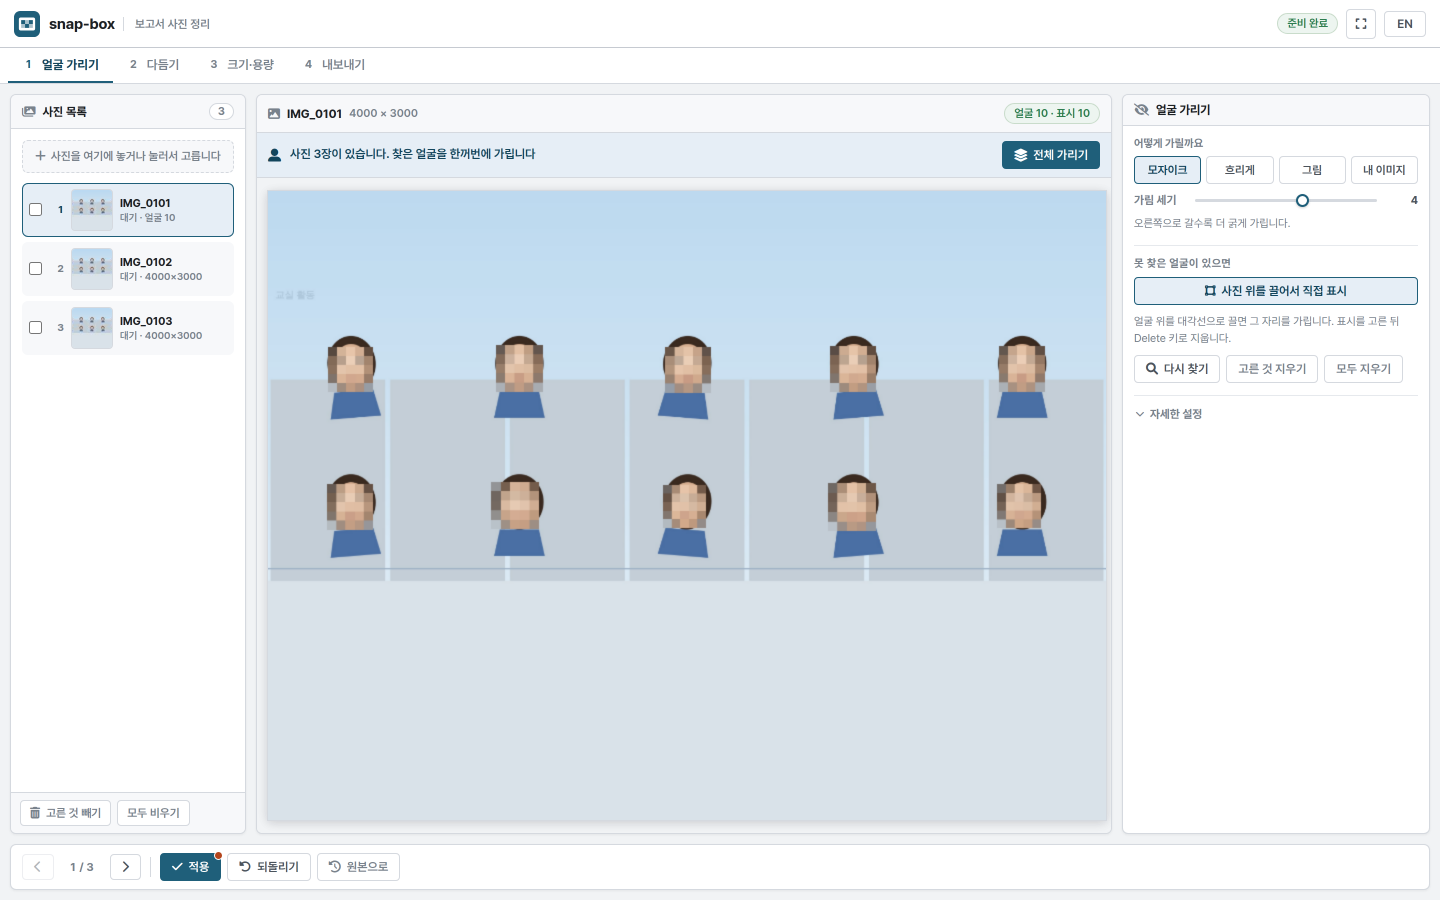
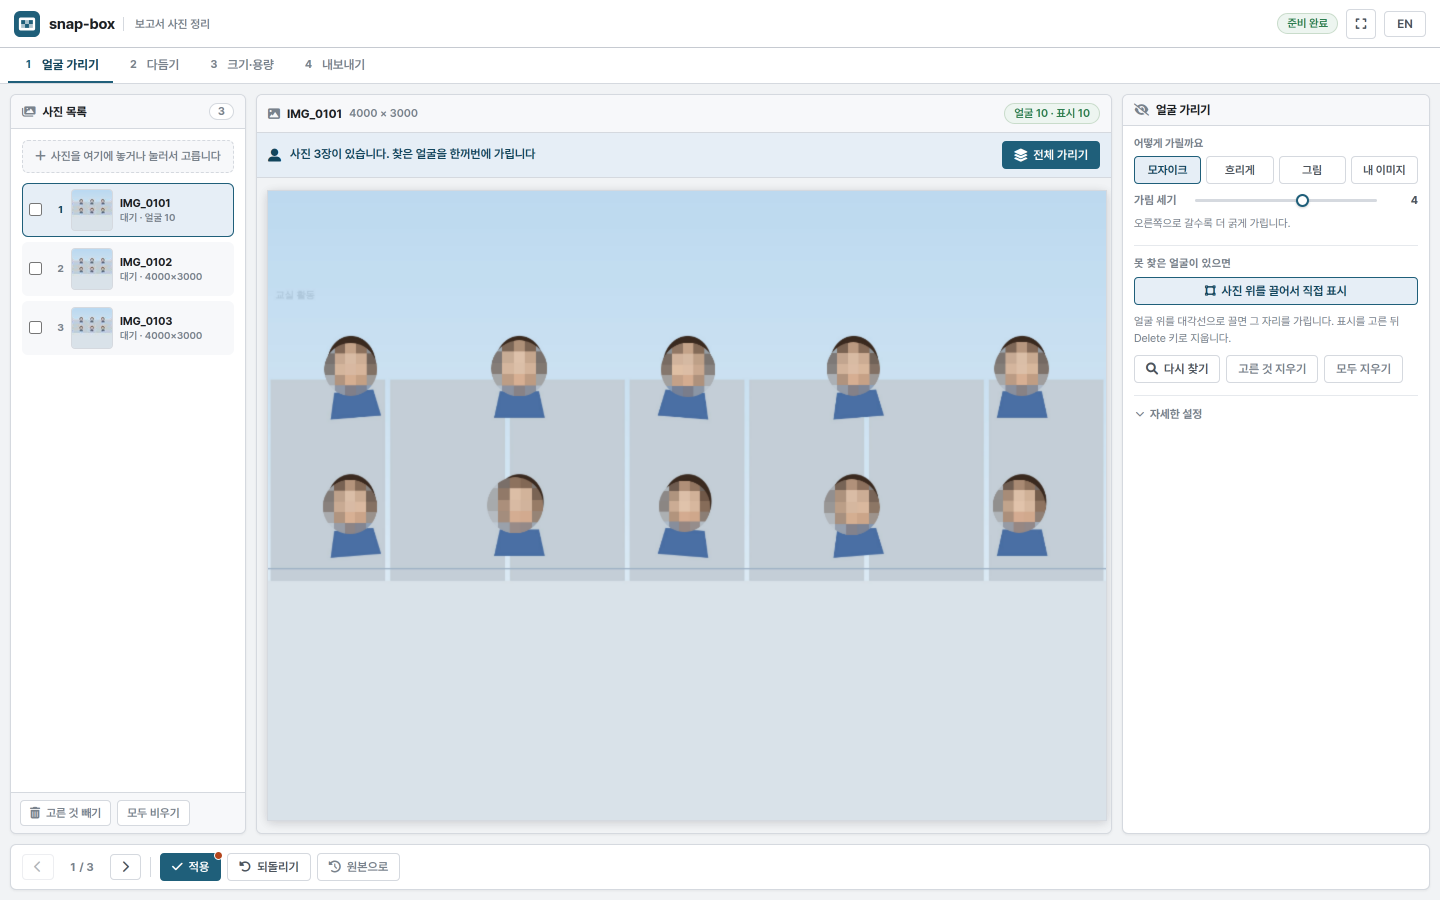
가림을 타원으로, 바깥은 투명하게
사각 모자이크가 사진 위에 도장처럼 박혀 보고서에 넣으면 튀었다.
가림을 타원으로 오려내고 바깥은 alpha 0 으로 둔다.

## 무엇을 했나
- buildPatch 끝에서 clipEllipse() 로 오려낸다(destination-in + ellipse).
  가장자리는 안티에일리어싱으로 빠져 사진에 자연스럽게 얹힌다.
- 그림(아이콘)은 타원을 가득 채우도록 cover 로 그린다. 우리 그림은 둥근 판이라
  타원이 되어도 어색하지 않고, 모자이크 테두리가 보이지 않는다.
- 사용자가 올린 그림(내 이미지)은 찌그러지면 안 되므로 contain 을 유지한다.
  남는 자리는 아래 깔린 모자이크가 채운다.
- 끌어서 표시할 때 보이는 미리보기도 타원으로 바꿨다. 끈 대로 가려진다.

## 모양을 바꾸면서 가림이 약해지면 안 된다
사각형에 내접한 타원은 네 모서리를 잃는다. 그만큼 검출 박스를 한 번 더 넓혔다.
  얼굴 폭 w → 박스 폭 = w × 1.3(EXPAND) × 1.18(ELLIPSE_K) ≈ 1.53w
  얼굴 위·아래 끝에서 타원 반폭 ≈ 0.58w > 그 높이의 머리 반폭 ≈ 0.4w
사람이 직접 그린 표시는 그린 그대로 쓴다(넓히지 않는다).

## 시험
감사에 타원 검사 2항목을 넣었다. 결과 blob 을 다시 읽어
  얼굴 타원 가장자리 8방향  → 80/80 덮임
  박스 네 모서리            → 40/40 원본 그대로 (타원 밖이 실제로 투명)
모자이크·흐리게·그림 세 방식 모두 48/48, 24/24 로 같은 결과.

http:// 75항목 · file:// 12항목 · 하위 경로 배포 모두 통과.
단체사진 일괄 재확인: 10명 5.6% 10/10, 10명 3.6% 10/10, 18명 3.6% 16/18.

design/README.md 에 "가리는 모양은 사각형으로 두지 않는다, 대신 덮이는 범위가
줄지 않게 영역을 넓힌다" 를 규칙으로 남겼다.

Claude-Session: https://claude.ai/code/session_01MbGiXBUSkrQwCfuHksAWKB

diff --git a/js/face.js b/js/face.js
@@ -32,7 +32,17 @@ window.SnapLab = window.SnapLab || {};
   var MODEL_FULL  = url('models/blaze_face_full_range.tflite');
   var MODEL_SHORT = url('models/blaze_face_short_range.tflite');
 
-  var EXPAND = 0.15;      // 검출 박스 상하좌우 15% 확장
+  var EXPAND = 0.15;      // 검출 박스 상하좌우 15% 확장 (머리카락·턱 노출 방지)
+
+  /* 가림은 사각형이 아니라 타원으로 만들고 바깥은 투명하게 둔다.
+   * 사각 모자이크는 보고서에 넣으면 도장을 찍은 것처럼 튄다.
+   *
+   * 다만 사각형에 내접한 타원은 네 모서리를 잃는다. 그만큼 얼굴이 드러나면
+   * 안 되므로, 검출 박스를 한 번 더 넓혀서 타원이 예전 사각형만큼은 덮게 한다.
+   *   얼굴 폭 w 기준 박스 폭 = w × 1.3(EXPAND) × 1.18(ELLIPSE_K) ≈ 1.53w
+   *   얼굴 위·아래 끝(±0.5h)에서 타원의 반폭 ≈ 0.58w  >  그 높이의 머리 반폭 ≈ 0.4w
+   * 사람이 직접 그린 칸은 그린 그대로 쓴다(넓히지 않는다). */
+  var ELLIPSE_K = 1.18;
   var MAX_COLS = 8;       // 모자이크 블록은 박스 폭의 1/8보다 작아지지 않는다
   var DEFAULT_COLS = 5;   // 기본값은 상한(8칸)보다 강하게 잡는다
 
@@ -254,8 +264,8 @@ window.SnapLab = window.SnapLab || {};
     for (var i = 0; i < raw.length; i++) {
       var d = raw[i];
       if (d.score < minScore) continue;
-      var w = d.w * (1 + EXPAND * 2);
-      var h = d.h * (1 + EXPAND * 2);
+      var w = d.w * (1 + EXPAND * 2) * ELLIPSE_K;
+      var h = d.h * (1 + EXPAND * 2) * ELLIPSE_K;
       var cx = (d.x + d.w / 2) * scale;
       var cy = (d.y + d.h / 2) * scale;
       w *= scale; h *= scale;
@@ -352,6 +362,29 @@ window.SnapLab = window.SnapLab || {};
     g.drawImage(b, Math.round(tw * pad), Math.round(th * pad), tw, th, 0, 0, tw, th);
   }
 
+  /* 캔버스를 타원으로 오려내고 바깥은 alpha 0 으로 만든다.
+   * destination-in: 원본(타원)이 불투명한 곳만 남기고 나머지는 지운다.
+   * 가장자리는 안티에일리어싱으로 부드럽게 빠져 사진에 자연스럽게 얹힌다. */
+  function clipEllipse(c) {
+    var g = c.getContext('2d');
+    g.save();
+    g.globalCompositeOperation = 'destination-in';
+    g.beginPath();
+    g.ellipse(c.width / 2, c.height / 2, c.width / 2, c.height / 2, 0, 0, Math.PI * 2);
+    g.fillStyle = '#000';
+    g.fill();
+    g.restore();
+  }
+
+  /* 타원을 가득 채우도록 그린다(넘치는 부분은 오려낸다). 우리가 만든 둥근 그림에 쓴다. */
+  function drawCover(g, img, tw, th) {
+    var iw = img.naturalWidth || img.width, ih = img.naturalHeight || img.height;
+    if (!iw || !ih) return;
+    var s = Math.max(tw / iw, th / ih);
+    var w = iw * s, h = ih * s;
+    g.drawImage(img, (tw - w) / 2, (th - h) / 2, w, h);
+  }
+
   function drawContain(g, img, tw, th, ratio) {
     var iw = img.naturalWidth || img.width, ih = img.naturalHeight || img.height;
     if (!iw || !ih) return;
@@ -377,12 +410,16 @@ window.SnapLab = window.SnapLab || {};
     }
 
     if (def.type === 'icon') {
+      // 우리 그림은 둥근 판이라 타원을 가득 채워도 어색하지 않다
       var im = iconCache[def.iconId] || iconCache[ICONS[0].id];
-      if (im) drawContain(g, im, tw, th, 0.98);
+      if (im) drawCover(g, im, tw, th);
     } else if (def.type === 'image') {
+      // 사용자가 올린 그림은 잘리거나 찌그러지면 안 되므로 안쪽에 맞춘다.
+      // 남는 자리는 아래 깔린 모자이크가 채운다.
       var cu = customCache[def.customURL];
       if (cu) drawContain(g, cu, tw, th, 1.0);
     }
+    clipEllipse(c);
     return c;
   }
 
@@ -427,6 +464,8 @@ window.SnapLab = window.SnapLab || {};
     warmUp: warmUp,
     toBoxes: toBoxes,
     clampCols: clampCols,
+    clipEllipse: clipEllipse,
+    ELLIPSE_K: ELLIPSE_K,
     DEFAULT_COLS: DEFAULT_COLS,
     buildPatch: buildPatch,
     ensureAssets: ensureAssets,

diff --git a/js/editor.js b/js/editor.js
@@ -228,10 +228,11 @@ window.SnapLab = window.SnapLab || {};
     if (!drawMode || !srcCanvas) return;
     if (opt.target) return;
     var p = canvas.getPointer(opt.e);
+    // 가림이 타원이므로 끌 때 보이는 미리보기도 타원으로 둔다 — 끈 대로 가려진다
     drawing = {
       x0: p.x, y0: p.y,
-      rect: new fabric.Rect({
-        left: p.x, top: p.y, width: 1, height: 1,
+      rect: new fabric.Ellipse({
+        left: p.x, top: p.y, rx: 0.5, ry: 0.5,
         fill: 'rgba(31,95,122,0.16)', stroke: '#1F5F7A', strokeWidth: 1,
         strokeDashArray: [4, 3], selectable: false, evented: false, objectCaching: false
       })
@@ -245,14 +246,14 @@ window.SnapLab = window.SnapLab || {};
     var p = canvas.getPointer(opt.e);
     var x = Math.min(p.x, drawing.x0), y = Math.min(p.y, drawing.y0);
     var w = Math.abs(p.x - drawing.x0), h = Math.abs(p.y - drawing.y0);
-    drawing.rect.set({ left: x, top: y, width: w, height: h });
+    drawing.rect.set({ left: x, top: y, rx: Math.max(0.5, w / 2), ry: Math.max(0.5, h / 2) });
     canvas.requestRenderAll();
   }
 
   function onUp() {
     if (!drawing) return;
     var r = drawing.rect;
-    var x = r.left, y = r.top, w = r.width, h = r.height;
+    var x = r.left, y = r.top, w = r.rx * 2, h = r.ry * 2;
     canvas.remove(r);
     drawing = null;
     if (w < 8 || h < 8) { canvas.requestRenderAll(); return; }

diff --git a/assets/icons/README.md b/assets/icons/README.md
@@ -12,10 +12,20 @@
 - `viewBox="0 0 128 128"`, `width`/`height` 속성 필수 — 없으면 캔버스에 못 그립니다.
 - 그림자·그라디언트·이모지 금지.
 
+## 원판은 타원을 가득 채웁니다
+
+가림은 사각형이 아니라 **타원**으로 오려내고 바깥은 투명합니다
+(`js/face.js` 의 `clipEllipse`). 그림은 그 타원을 가득 채우도록(cover) 그려지므로,
+얼굴이 세로로 길면 원판도 살짝 세로로 늘어납니다. **그래서 원판이어야 합니다.**
+사각형 그림을 넣으면 모서리가 잘려 어색해집니다.
+
+사용자가 올린 그림(`내 이미지`)만 찌그러지지 않게 안쪽에 맞추고(contain),
+남는 자리는 아래 깔린 모자이크가 채웁니다.
+
 ## 가림은 그림이 아니라 바탕이 책임집니다
 
-그림은 장식이고, 실제로 얼굴을 덮는 것은 그 아래 깔리는 모자이크입니다
-(`js/face.js` 의 `buildPatch`). 그림이 칸을 다 못 채워도 얼굴이 새지 않습니다.
+그림은 장식이고, 실제로 얼굴을 덮는 것은 그 아래 깔리는 모자이크입니다.
+그림이 타원을 다 못 채워도 얼굴이 새지 않습니다.
 그림만 얹고 바탕을 빼는 식으로 고치지 마세요.
 
 ## js/face.js 와 같이 고칠 것

diff --git a/design/README.md b/design/README.md
@@ -239,6 +239,12 @@ sense-lab `lib/i18n.js` 규약을 두 킷이 함께 씁니다.
 - 색은 킷 토큰 값을 **그대로 적습니다.** CSS 변수를 못 읽는 자리(캔버스 2D, fabric 설정)라도
   `#1F5F7A` 처럼 같은 값을 쓰고, 옆에 어떤 토큰인지 주석을 답니다.
 - 사진·영상 위에 얹는 표식은 **불투명**해야 합니다. 대비가 낮으면 묻힙니다.
+- **가리는 모양은 사각형으로 두지 않습니다.** 사각 모자이크는 보고서에 넣으면
+  도장을 찍은 것처럼 튑니다. 타원으로 오려내고(`destination-in`) 바깥은 alpha 0 으로
+  둡니다. 가장자리 안티에일리어싱이 사진에 자연스럽게 섞입니다.
+  단, 내접 타원은 네 모서리를 잃으므로 **가릴 영역을 그만큼 더 넓혀** 덮이는 범위가
+  줄지 않게 합니다(snap-box: 검출 박스 × 1.18). 모양을 바꾸면서 가림이 약해지면 안 됩니다.
+  그 위에 얹는 그림은 원형으로 그려 타원을 가득 채우게 합니다(cover).
 - 캔버스에 올릴 SVG 는 `data:` URI 로 내장합니다. `file://` 에서 로컬 SVG 를 그리면
   캔버스가 오염되어 `toBlob()` 이 막힙니다.
 
